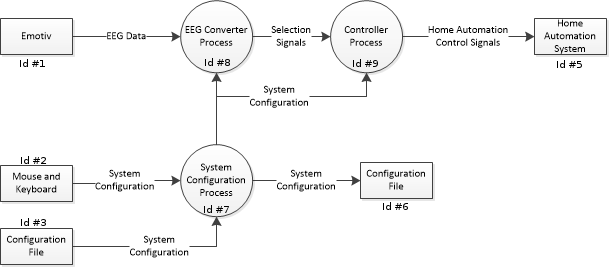
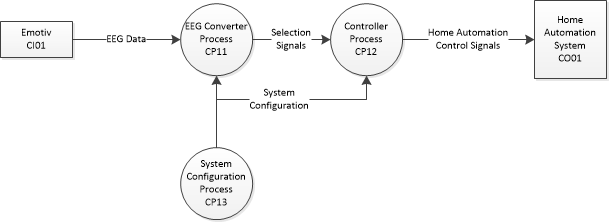
fixed some of the DFDs and redid the labeling

diff --git a/project/sds/sds.tex b/project/sds/sds.tex
@@ -163,32 +163,25 @@ match the state.
 
 \subsection{Structure and relationships}
 
-\subsubsection{Component ID 1}
+\subsubsection{Component CI01}
 This component is the brain computer interface that provides an EEG signal into our system to control it.
 
-\subsubsection{Component ID 2}
-This is a mouse and keyboard. While this is not usually explicitly included, since we are using a BCI for most controls, we thought that it would be helpful.
-
-\subsubsection{Component ID 3}
-This is the source of the current configuration. This may be stored locally, or may be stored externally.
-
-\subsubsection{Component ID 4}
+\subsubsection{Component CP01}
 This represents the totality of our product. It performs every action and completely controls the house given the EEG as input.
 
-\subsubsection{Component ID 5}
+\subsubsection{Component CO01}
 This is the home automation system. When it receives signals, it changes a physical property of the house, such as whether a light is on or off, or what channel a stereo is tuned to.
 
-\subsubsection{Component ID 6}
-This is the configuration file again. It is identical to Id 3 except it is being written to instead of read from.
-
-\subsubsection{Component ID 7}
-This is the process that is in charge of managing the system configuration. It reads in the configuration, process is, modifies it if necessary, makes it available to the rest of the system, and writes it back if modified.
-
-\subsubsection{Component ID 8}
+\subsubsection{Component CP11}
 This is the process responsible for converting the large amount of data of the EEG into a more understandable signal. This will consist of only one bit at any given time.
 
-\subsubsection{Component ID 9}
-This component translates the control signals generated into Id 8 and uses them to control the house. It does this by storing the current state of the system and then transitioning when it receives the proper signals from Id 8.
+\subsubsection{Component CP12}
+This component translates the control signals generated in CP11 and uses them to control the house. It does this by storing the current state of the system and then transitioning when it receives the proper signals from CP11.
+
+\subsubsection{Component CP13}
+This is the process that is in charge of managing the system configuration. It reads in the configuration, process is, modifies it if necessary, makes it available to the rest of the system, and writes it back if modified.
+
+
 \newpage
 
 \section{Interface Description}
